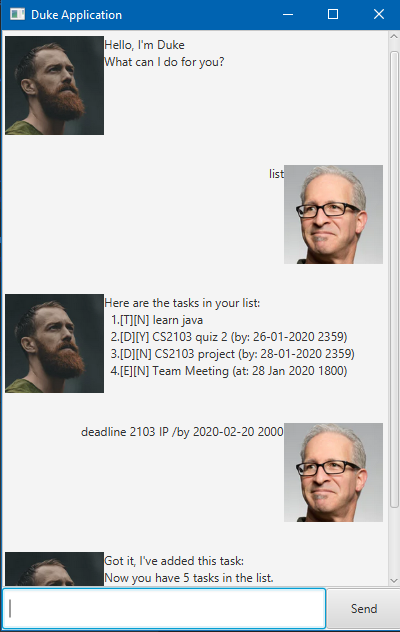
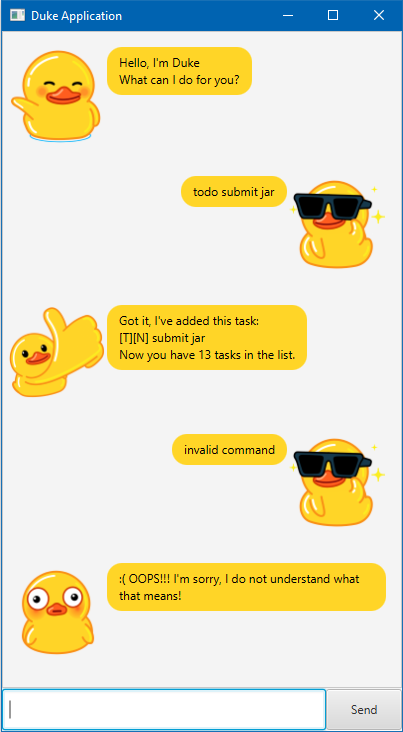
Update Duke UI

diff --git a/src/main/java/MainWindow.java b/src/main/java/MainWindow.java
@@ -22,8 +22,8 @@ public class MainWindow extends AnchorPane {
     private Duke duke;
     private Gui gui = new Gui();
 
-    private Image userImage = new Image(this.getClass().getResourceAsStream("/images/DaUser.png"));
-    private Image dukeImage = new Image(this.getClass().getResourceAsStream("/images/DaDuke.png"));
+    private Image userImage = new Image(this.getClass().getResourceAsStream("/images/NewUser.png"));
+    private Image dukeImage = new Image(this.getClass().getResourceAsStream("/images/IntroDuke.png"));
 
     @FXML
     public void initialize() {
@@ -43,6 +43,12 @@ public class MainWindow extends AnchorPane {
     private void handleUserInput() {
         String input = userInput.getText();
         String response = duke.getResponse(input);
+        if(response.substring(0,2).equals(":(")) {
+            dukeImage = new Image(this.getClass().getResourceAsStream("/images/Fail.png"));
+        }
+        else {
+            dukeImage = new Image(this.getClass().getResourceAsStream("/images/NewDuke.png"));
+        }
         dialogContainer.getChildren().addAll(
                 DialogBox.getUserDialog(input, userImage),
                 DialogBox.getDukeDialog(response, dukeImage)

diff --git a/src/main/java/Gui.java b/src/main/java/Gui.java
@@ -5,7 +5,7 @@ public class Gui {
      */
     public String printStartUp() {
 
-        return ("Hello, I'm Duke\nWhat can I do for you?\n\n");
+        return ("Hello, I'm Duke\nWhat can I do for you?\n");
     }
 
     /**
@@ -79,12 +79,14 @@ public class Gui {
      *
      * @param listOfTasks List of all saved tasks.
      */
-    public String printOutAdded(TaskList listOfTasks) {
+    public String printOutAdded(TaskList listOfTasks) throws DukeException {
         String toReturn = "Got it, I've added this task:\n";
-        if (listOfTasks.getNumOfTasks() < 2) {
-            toReturn += "Now you have 1 task in the list.\n";
+        int num = listOfTasks.getNumOfTasks();
+        toReturn += listOfTasks.getTask(num - 1);
+        if (num < 2) {
+            toReturn += "\nNow you have 1 task in the list.\n";
         } else {
-            toReturn += String.format("Now you have %d tasks in the list.\n", listOfTasks.getNumOfTasks());
+            toReturn += String.format("\nNow you have %d tasks in the list.\n", listOfTasks.getNumOfTasks());
         }
         return toReturn;
     }

diff --git a/src/main/java/Storage.java b/src/main/java/Storage.java
@@ -15,6 +15,17 @@ public class Storage {
      */
     public Storage(String path) {
         this.path = path;
+        File storageFolder = new File("./data");
+
+        if(!(storageFolder.exists())) {
+            storageFolder.mkdir();
+        }
+        this.path = "./data/" + path;
+        File dataLog = new File(path);
+        if(!(dataLog.exists())) {
+            dataLog.mkdir();
+        }
+
     }
 
 

diff --git a/src/main/java/Duke.java b/src/main/java/Duke.java
@@ -12,7 +12,7 @@ public class Duke {
      * Constructor for the Duke Class.
      */
     public Duke() {
-        String filepath = "data/duke.txt";
+        String filepath = "duke.txt";
         ui = new Gui();
         //ui.printStartUp();
         storage = new Storage(filepath);
